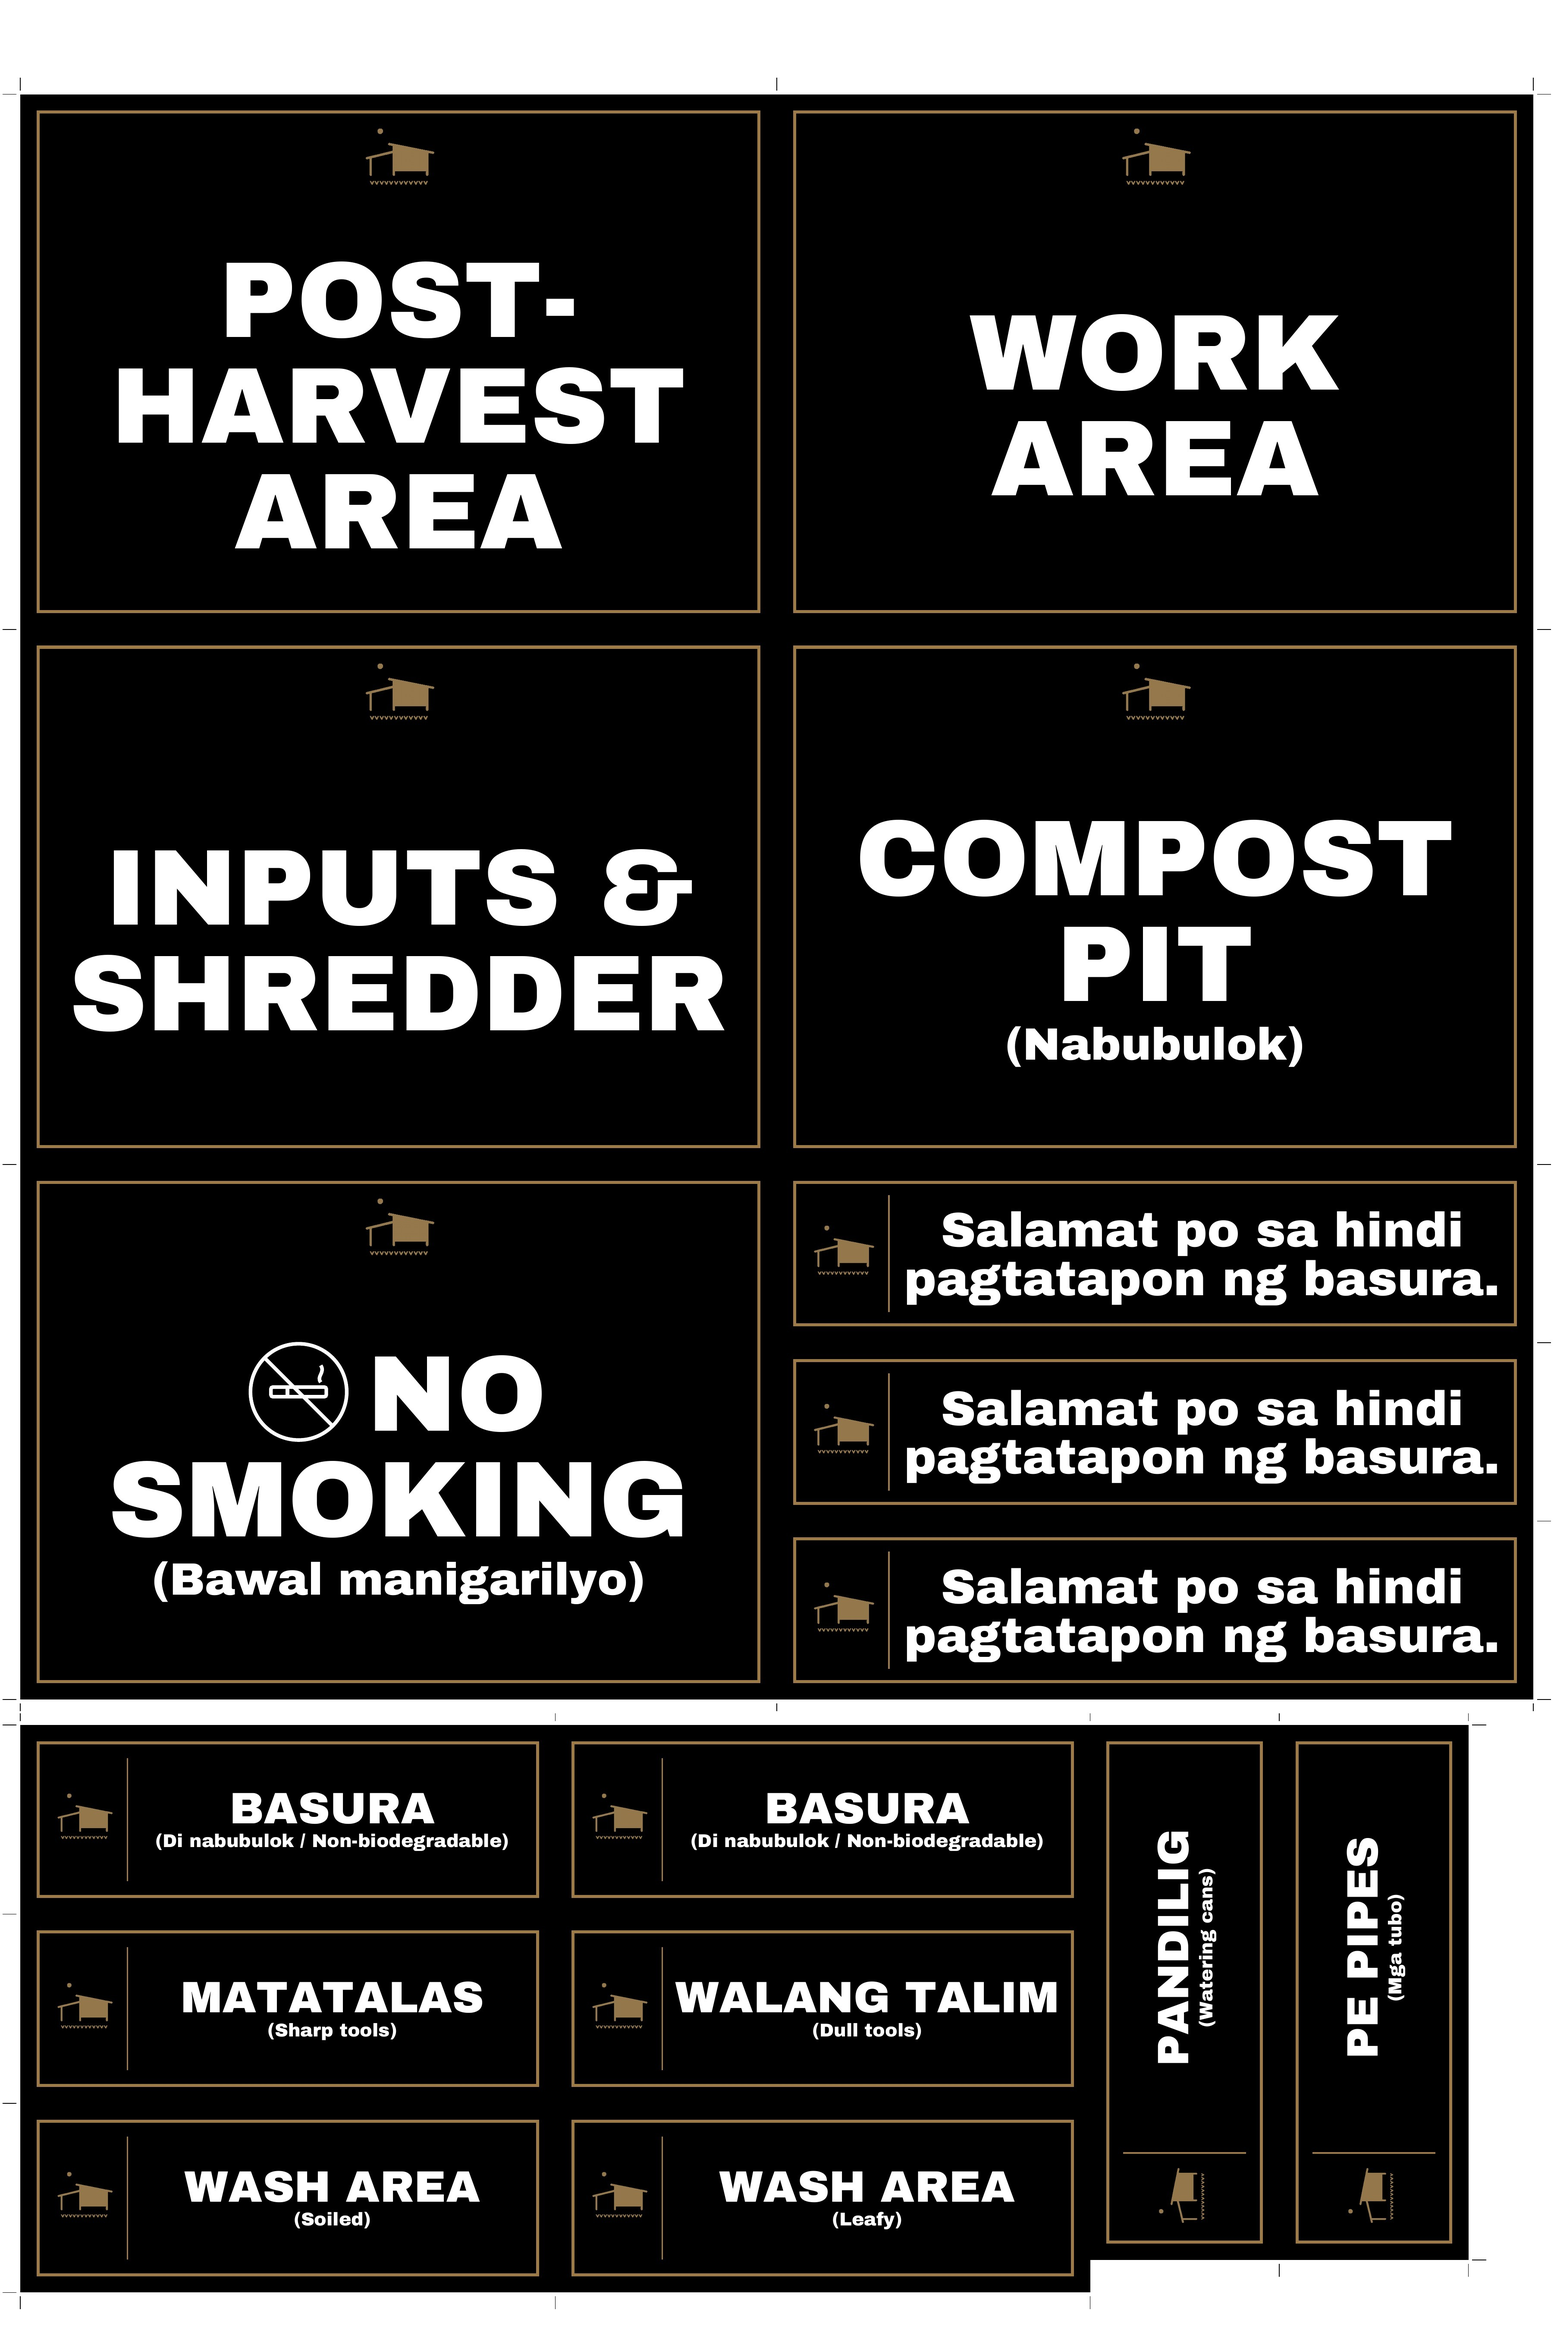
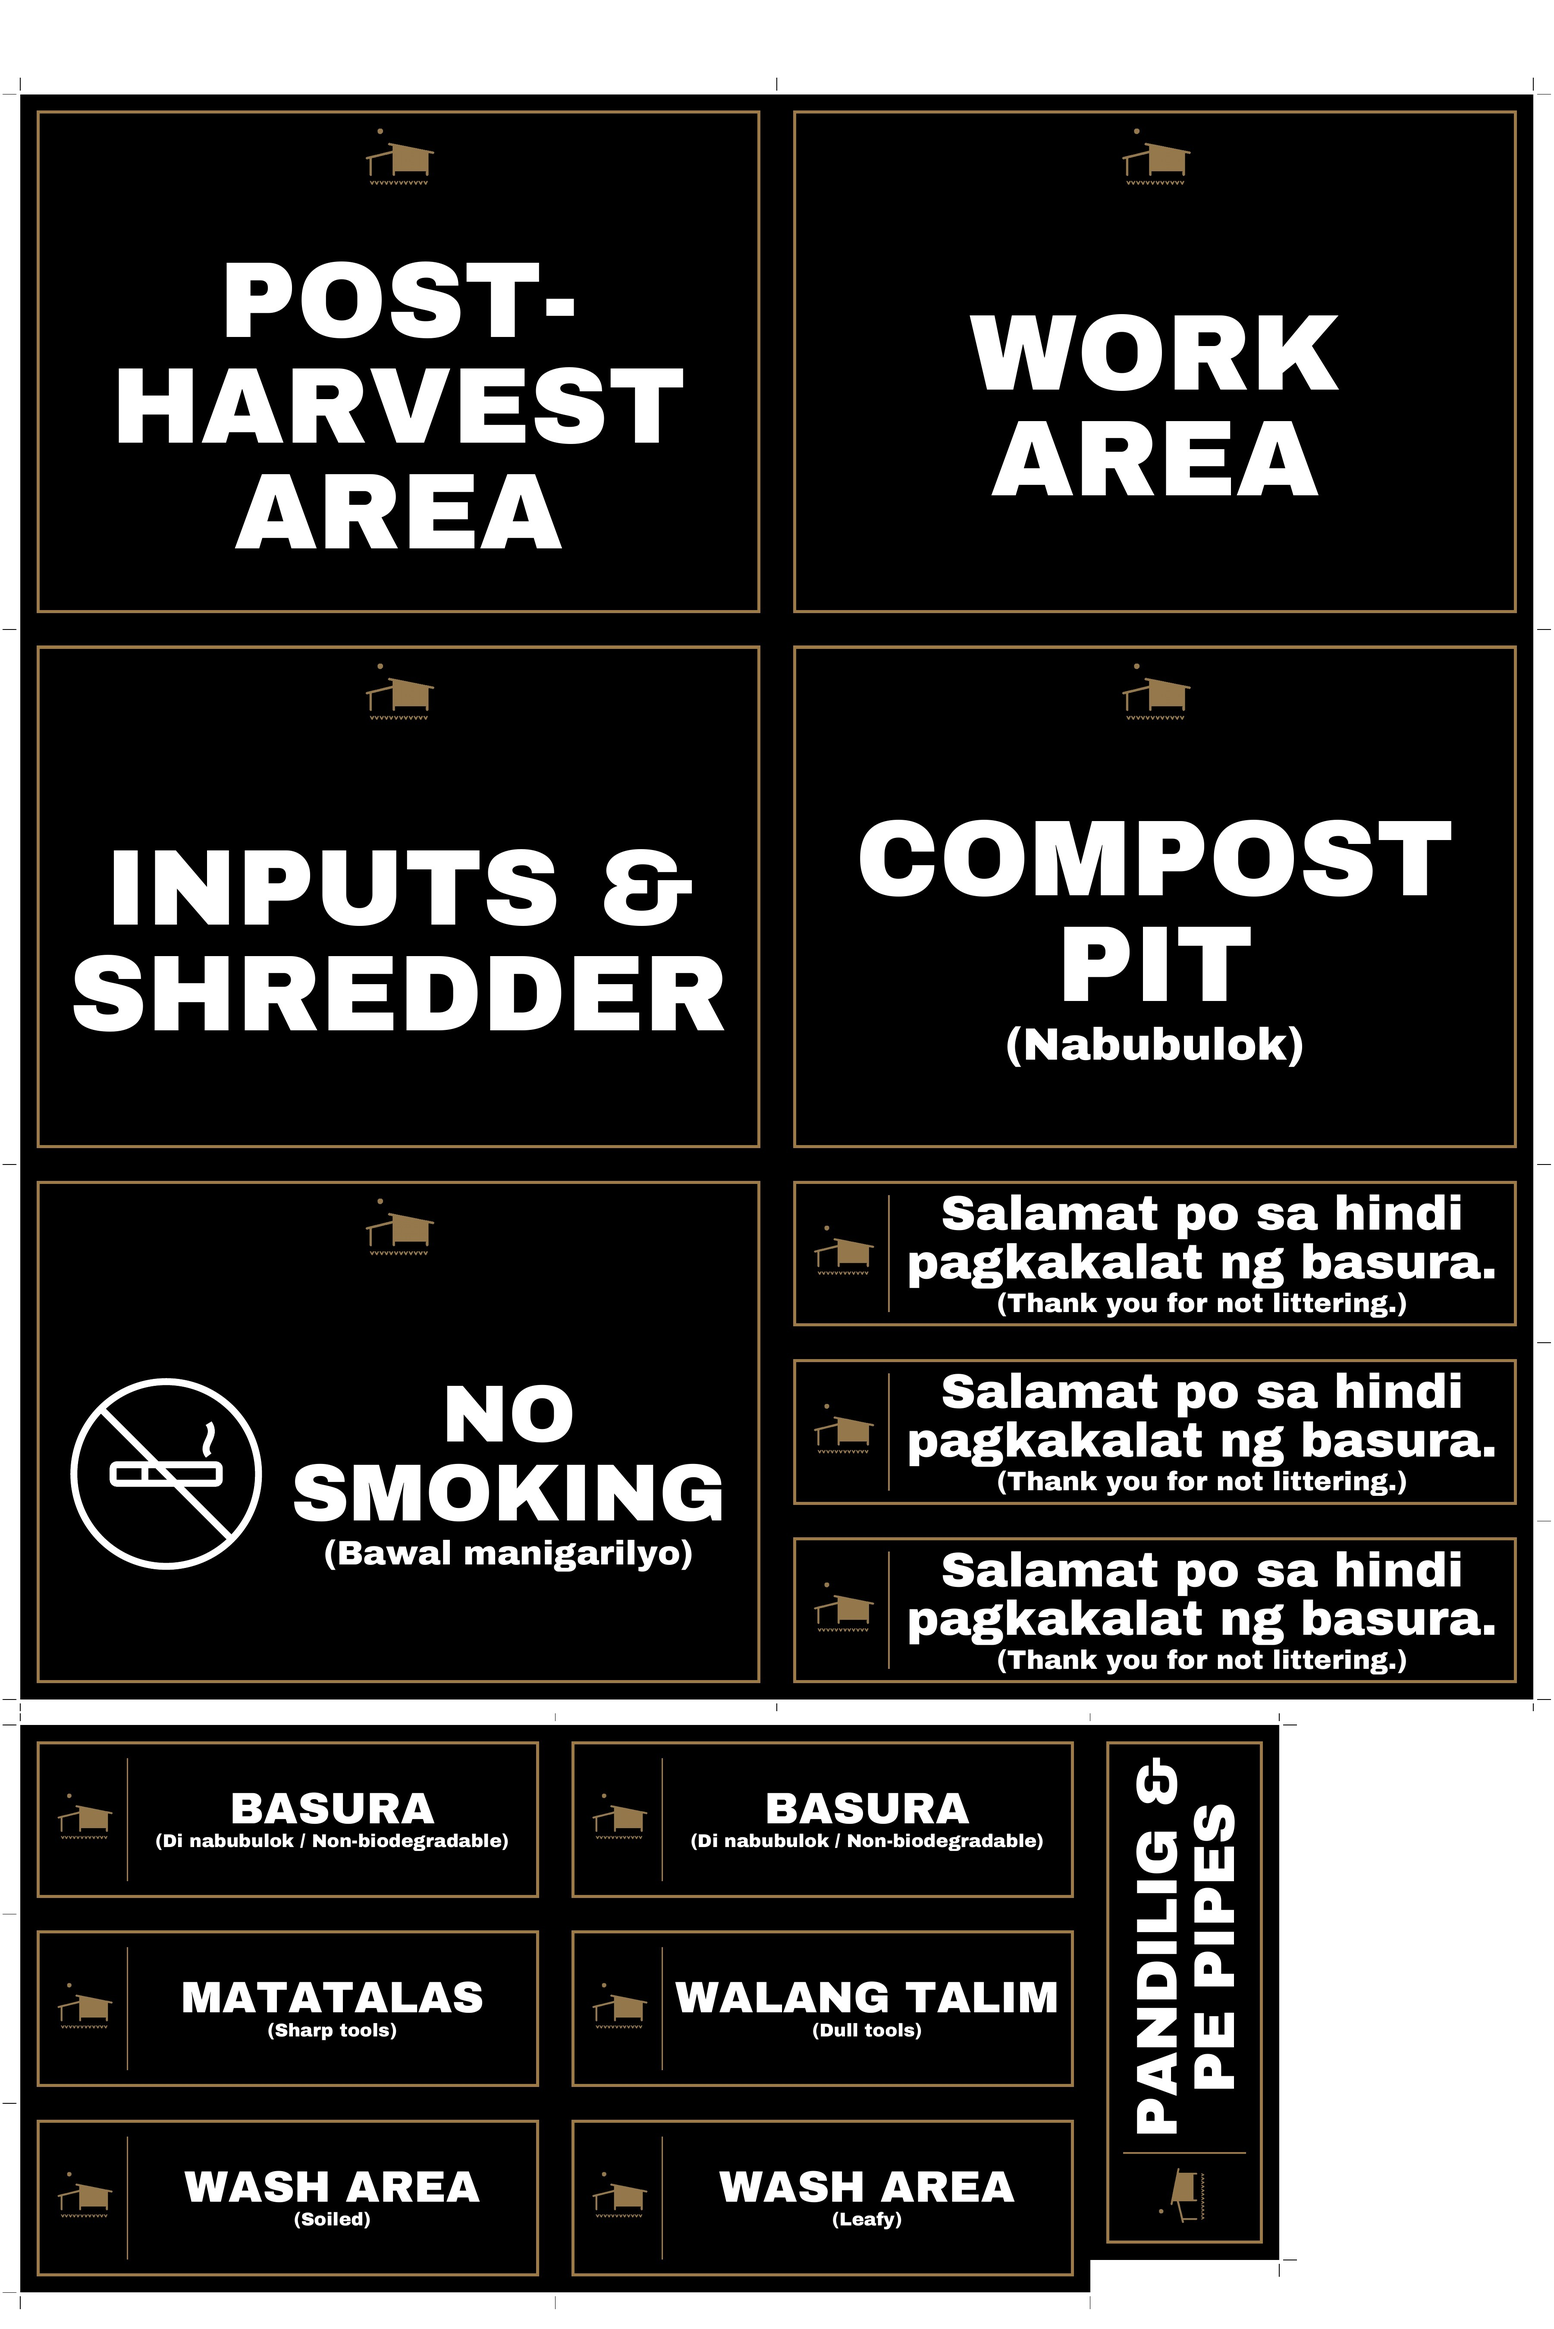
No Smoking back to side-by-side with bigger text; Pandilig & PE pipes combined; fence: pagkakalat + English
Claude-Session: https://claude.ai/code/session_01DMCAWJmjMbTBJyh2Zs3QXd

Changed region(s): [[0.5595, 0.5913, 0.9636, 0.9959], [0.0311, 0.5602, 0.4663, 0.6847], [0.5595, 0.498, 0.9636, 0.5602]]

diff --git a/labels/make_area_signs.py b/labels/make_area_signs.py
@@ -369,7 +369,10 @@ def draw_sign2(c, s, style):
     bx, by = m + 12 * mm, m + 9 * mm
     bw, bh = w - 2 * (m + 12 * mm), h - m - head - 4 * mm - by
     if s.get("nosmoke"):
-        no_smoking_sign(c, s, bx, by, bw, bh)
+        r = bh * 0.25
+        no_smoking_min(c, bx + r + 2 * mm, by + bh / 2, r, white)
+        tx = bx + 2 * r + 14 * mm
+        text_block2(c, s, tx, by, bx + bw - tx, bh)
     else:
         text_block2(c, s, bx, by, bw, bh)
 
@@ -498,8 +501,7 @@ SMALL = [
     dict(lines=["WALANG TALIM"], sub="(Dull tools)"),
     dict(lines=["WASH AREA"], sub="(Soiled)"),
     dict(lines=["WASH AREA"], sub="(Leafy)"),
-    dict(lines=["PANDILIG"], sub="(Watering cans)"),
-    dict(lines=["PE PIPES"], sub="(Mga tubo)"),
+    dict(lines=["PANDILIG &", "PE PIPES"], sub=None),
 ]
 
 
@@ -514,8 +516,9 @@ def _small_box():
 def _small_sizes():
     bx, by, bw, bh = _small_box()
     cap = 0.72
-    size = min(fit(s["lines"][0], bw, 200) for s in SMALL)
-    sub = min(fit(s["sub"], bw, size * 0.42) for s in SMALL)
+    one = [s for s in SMALL if len(s["lines"]) == 1 and s.get("sub")]
+    size = min(fit(s["lines"][0], bw, 200) for s in one)
+    sub = min(fit(s["sub"], bw, size * 0.42) for s in one)
     while size * cap + size * 0.24 + sub * cap > bh:
         size -= 1
         sub = min(sub, size * 0.42)
@@ -538,6 +541,9 @@ def draw_small(c, s, style):
     c.setLineWidth(0.6 * mm)
     c.line(x, m + 6 * mm, x, h - m - 6 * mm)
     bx, by, bw, bh = _small_box()
+    if len(s["lines"]) > 1 or not s.get("sub"):
+        text_block(c, s["lines"], s.get("sub"), bx, by, bw, bh, color=white)
+        return
     cap = 0.72
     total = SMALL_SIZE * cap + SMALL_SIZE * 0.24 + SMALL_SUB * cap
     top = by + (bh + total) / 2
@@ -607,7 +613,7 @@ def main3():
 
 # ---- Fence signs (1/3 A4 lengthwise, 297 x 70 mm) and tarp v4 -----------------------------
 FW, FH = A4W, A4H / 3
-FENCE = dict(lines=["Salamat po sa hindi", "pagtatapon ng basura."], sub=None)
+FENCE = dict(lines=["Salamat po sa hindi", "pagkakalat ng basura."], sub="(Thank you for not littering.)")
 
 
 def draw_fence(c, style, s=FENCE):
@@ -623,7 +629,8 @@ def draw_fence(c, style, s=FENCE):
     c.setLineWidth(0.6 * mm)
     c.line(x, m + 5 * mm, x, h - m - 5 * mm)
     bx = x + 5 * mm
-    text_block(c, s["lines"], s["sub"], bx, m + 3 * mm, w - m - 5 * mm - bx, h - 2 * m - 6 * mm, color=white)
+    text_block(c, s["lines"], s["sub"], bx, m + 3 * mm, w - m - 5 * mm - bx, h - 2 * m - 6 * mm,
+               sub_ratio=0.55, gap_ratio=0.3, color=white)
 
 
 def tarp4(style):
@@ -645,7 +652,7 @@ def tarp4(style):
         col, row = i % 2, i // 2
         place(c, X0 + col * QW, sy_top - (row + 1) * QH, draw_small, s, style)
     rx = X0 + 2 * QW                        # 2 more, turned sideways, in the strip to the right
-    for k, s in enumerate(SMALL[6:8]):
+    for k, s in enumerate(SMALL[6:7]):
         x = rx + k * QH
         c.saveState()
         c.translate(x + QH, sy_top - QW)
@@ -665,17 +672,19 @@ def tarp4(style):
         c.line(SW - X0 + off, y, SW - X0 + off + side, y)
     for y in (gb + FH, gb + 2 * FH):        # fence sign cuts, right column only
         c.line(SW - X0 + off, y, SW - X0 + off + side, y)
-    for x in (X0, X0 + QW, X0 + 2 * QW, rx + QH, rx + 2 * QH):
+    n_side = len(SMALL) - 6
+    for x in [X0, X0 + QW, X0 + 2 * QW] + [rx + (k + 1) * QH for k in range(n_side)]:
         c.line(x, sy_top + off, x, sy_top + off + short)
     for x in (X0, X0 + QW, X0 + 2 * QW):
         c.line(x, sb - off, x, sb - off - ln)
-    for x in (rx + QH, rx + 2 * QH):
+    for x in [rx] + [rx + (k + 1) * QH for k in range(n_side)]:
         c.line(x, sy_top - QW - off, x, sy_top - QW - off - ln)
     for k in range(4):
         y = sy_top - k * QH
         c.line(X0 - off, y, X0 - off - side, y)
-    c.line(rx + 2 * QH + off, sy_top, rx + 2 * QH + off + side, sy_top)
-    c.line(rx + 2 * QH + off, sy_top - QW, rx + 2 * QH + off + side, sy_top - QW)
+    ex = rx + n_side * QH
+    c.line(ex + off, sy_top, ex + off + side, sy_top)
+    c.line(ex + off, sy_top - QW, ex + off + side, sy_top - QW)
     c.showPage()
     c.save()
     return out
